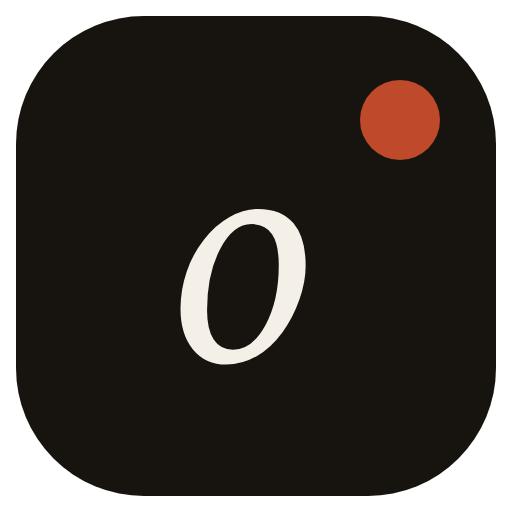
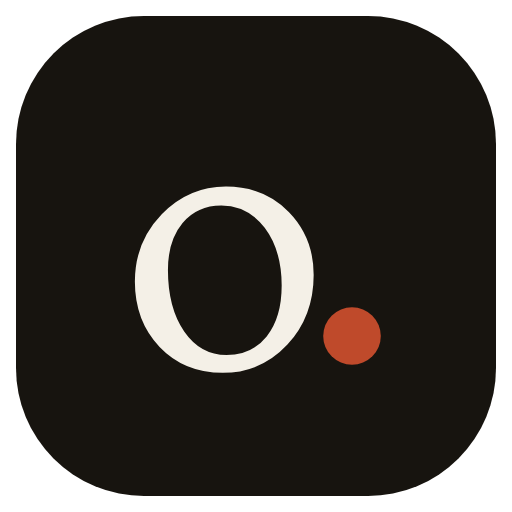
Refine monogram to a clear o., tighten contrast, fix gradient seam

Changed region(s): [[0.25, 0.3438, 0.75, 0.75], [0.6875, 0.1562, 0.875, 0.3125]]

diff --git a/index.html b/index.html
@@ -50,8 +50,8 @@
     <a class="brand" href="#top" aria-label="Occiderunt, home">
       <svg class="mark" viewBox="0 0 32 32" aria-hidden="true">
         <rect x="1" y="1" width="30" height="30" rx="8.5" fill="currentColor"/>
-        <text x="15.5" y="23.5" text-anchor="middle" font-family="Iowan Old Style, Palatino, Georgia, serif" font-size="21" font-style="italic" fill="var(--paper)">o</text>
-        <circle cx="25.5" cy="7.5" r="2.6" fill="var(--accent)"/>
+        <text x="14" y="23" text-anchor="middle" font-family="Iowan Old Style, Palatino, Georgia, serif" font-size="23" fill="var(--paper)">o</text>
+        <circle cx="22" cy="21" r="1.9" fill="var(--accent)"/>
       </svg>
       <span class="brand-word">occiderunt</span>
     </a>
@@ -285,8 +285,8 @@
     <div class="foot-brand">
       <svg class="mark" viewBox="0 0 32 32" aria-hidden="true">
         <rect x="1" y="1" width="30" height="30" rx="8.5" fill="currentColor"/>
-        <text x="15.5" y="23.5" text-anchor="middle" font-family="Iowan Old Style, Palatino, Georgia, serif" font-size="21" font-style="italic" fill="var(--paper)">o</text>
-        <circle cx="25.5" cy="7.5" r="2.6" fill="var(--accent)"/>
+        <text x="14" y="23" text-anchor="middle" font-family="Iowan Old Style, Palatino, Georgia, serif" font-size="23" fill="var(--paper)">o</text>
+        <circle cx="22" cy="21" r="1.9" fill="var(--accent)"/>
       </svg>
       <div>
         <p class="fb-name">occiderunt</p>
